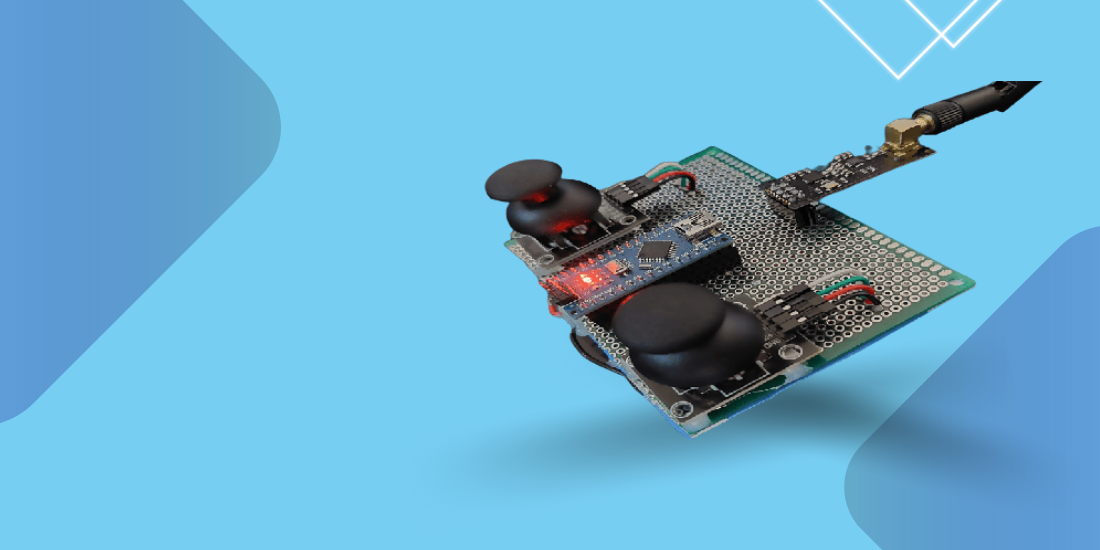
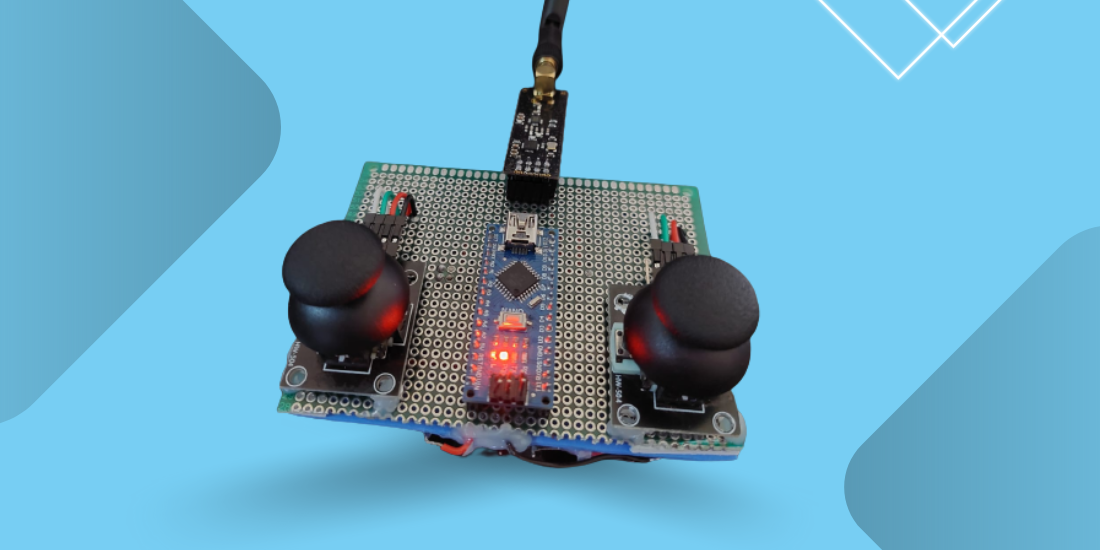
Project covers are good now

diff --git a/src/data.js b/src/data.js
@@ -57,6 +57,7 @@ export const works = [
         title: 'Solar-Panel',
         desc : 'Solar light detector',
         img  : images.solar_panel_project_cover,
+        smallImg: images.small_solar_panel_project_cover,
         link : 'solar-panel',
         back: '#adff2f',
     },
@@ -64,6 +65,7 @@ export const works = [
         title: 'Radio-Control',
         desc : 'RC Radio Controller',
         img  : images.rc_project_cover,
+        smallImg: images.small_rc_project_cover,
         link : 'radio-control',
         back: '#77cef3',
     },
@@ -74,6 +76,7 @@ export const works = [
         title: 'Drone',
         desc : 'Arduino based drone',
         img  : images.coming_soon_project_cover,
+        smallImg: images.small_coming_soon_project_cover,
         link : 'drone',
         back: '#f36430',
     },
@@ -81,6 +84,7 @@ export const works = [
         title: 'Robot-Arm',
         desc : 'Robotic gripper arm',
         img  : images.coming_soon_project_cover,
+        smallImg: images.small_coming_soon_project_cover,
         link : 'robot-arm',
         back: '#f36430',
     },
@@ -88,6 +92,7 @@ export const works = [
         title: 'DIY-Car',
         desc : 'Wireless control car',
         img  : images.coming_soon_project_cover,
+        smallImg: images.small_coming_soon_project_cover,
         link : 'diy-car',
         back: '#f36430',
     },
@@ -95,6 +100,7 @@ export const works = [
         title: 'Watering-System',
         desc : 'Automatic watering system',
         img  : images.coming_soon_project_cover,
+        smallImg: images.small_coming_soon_project_cover,
         link : 'watering-system',
         back: '#f36430',
     },
@@ -102,6 +108,7 @@ export const works = [
         title: 'Selling-Machine',
         desc : 'Automatic selling machine',
         img  : images.coming_soon_project_cover,
+        smallImg: images.small_coming_soon_project_cover,
         link : 'selling-machine',
         back: '#f36430',
     },

diff --git a/src/constants/images.js b/src/constants/images.js
@@ -13,6 +13,7 @@ import website                   from '../assets/home/services-website.png';
 
 /* Solar Light Detector */
 import solar_panel_project_cover from '../assets/solarPanel/solar_panel_project_cover.png';
+import small_solar_panel_project_cover from '../assets/solarPanel/small_solar_panel_project_cover.png';
 import arduino_solar_light       from '../assets/solarPanel/arduino_solar_light.jpg'; 
 import arduino_solar_light_small from '../assets/solarPanel/arduino_solar_light_small.jpg';
 import solar_panel_1             from '../assets/solarPanel/solar-panel-1.jpg';
@@ -31,6 +32,7 @@ import thangs_logo               from '../assets/home/thangs_logo.png';
 
 /* Radio Control */
 import rc_project_cover          from '../assets/radioControl/rc_project_cover.png';
+import small_rc_project_cover          from '../assets/radioControl/small_rc_project_cover.png';
 import rc_radio_control          from '../assets/radioControl/rc__right-side.jpg';
 import rc_received_data          from '../assets/radioControl/rc__received-data.jpg';
 
@@ -53,6 +55,7 @@ import create_banner             from '../assets/home/create-banner.png';
 import profile                   from '../assets/profile.jpg';
 
 import coming_soon_project_cover from '../assets/home/coming_soon_project_cover.gif';
+import small_coming_soon_project_cover from '../assets/home/small_coming_soon_project_cover.gif';
 
 const images = {
     banner,
@@ -70,6 +73,7 @@ const images = {
 
     /* Soalr Light Tracker */
     solar_panel_project_cover,
+    small_solar_panel_project_cover,
     arduino_solar_light,
     arduino_solar_light_small,
     solar_panel_1,
@@ -88,6 +92,7 @@ const images = {
 
     /* Radio Control */
     rc_project_cover,
+    small_rc_project_cover,
     rc_radio_control,
     rc_received_data,
 
@@ -110,6 +115,7 @@ const images = {
     profile,
 
     coming_soon_project_cover,
+    small_coming_soon_project_cover,
 }
 
 export default images;

diff --git a/src/components/Projects/RadioControl.jsx b/src/components/Projects/RadioControl.jsx
@@ -1,30 +1,29 @@
 import React from 'react';
-import { Link } from 'react-router-dom';
-import { BiCoffeeTogo } from 'react-icons/bi';
-import { FaPatreon } from 'react-icons/fa';
-import { AiFillInstagram } from 'react-icons/ai';
+// import { Link } from 'react-router-dom';
+// import { BiCoffeeTogo } from 'react-icons/bi';
+// import { FaPatreon } from 'react-icons/fa';
+// import { AiFillInstagram } from 'react-icons/ai';
 
 import './Project.css';
 import { images } from '../../constants/index';
-import { parts_3d, model_3d } from '../../data';
 
-const support = [
-  {
-    name: "Bye Me Coffe",
-    icon: <BiCoffeeTogo className='icon' fill='white' />,
-    link: "https://www.buymeacoffee.com/choaib.elmadi",
-  },
-  {
-    name: "Patreon",
-    icon: <FaPatreon className='icon' fill='black' />,
-    link: "https://www.patreon.com/user?u=81408575",
-  },
-  {
-    name: "Instagram",
-    icon: <AiFillInstagram className='icon' fill='white' />,
-    link: "https://www.instagram.com/choaib_elmadi",
-  },
-]
+// const support = [
+//   {
+//     name: "Bye Me Coffe",
+//     icon: <BiCoffeeTogo className='icon' fill='white' />,
+//     link: "https://www.buymeacoffee.com/choaib.elmadi",
+//   },
+//   {
+//     name: "Patreon",
+//     icon: <FaPatreon className='icon' fill='black' />,
+//     link: "https://www.patreon.com/user?u=81408575",
+//   },
+//   {
+//     name: "Instagram",
+//     icon: <AiFillInstagram className='icon' fill='white' />,
+//     link: "https://www.instagram.com/choaib_elmadi",
+//   },
+// ]
 
 
 

diff --git a/src/components/Work/Work.jsx b/src/components/Work/Work.jsx
@@ -1,4 +1,4 @@
-import React from 'react';
+import React, { useState, useEffect } from 'react';
 import { Link } from 'react-router-dom';
 import { FaEye } from 'react-icons/fa';
 
@@ -8,6 +8,24 @@ import { works } from '../../data';
 
 
 const Work = () => {
+    const [isMobile, setIsMobile] = useState(false);
+
+    useEffect(() => {
+        const mediaQuery = window.matchMedia('(max-width: 600px)');
+    
+        setIsMobile(mediaQuery.matches);
+    
+        const handleMediaChange = (e) => {
+          setIsMobile(e.matches);
+        }
+    
+        mediaQuery.addEventListener('change', handleMediaChange);
+    
+        return () => {
+          mediaQuery.removeEventListener('change', handleMediaChange);
+        };
+    }, []);
+
     return (
         <div id='Work' className='app__work'>
             {
@@ -17,7 +35,7 @@ const Work = () => {
                         className='app__works-work' 
                         style={{ background: work.back }}
                     >
-                        <img src={ work.img } alt={ `work-${ i }` } draggable={ false } />
+                        <img src={ isMobile ? work.smallImg : work.img } alt={ `work-${ i }` } draggable={ false } />
                         <h2>{ work.title }</h2>
                         <Link to={ `/projects/${ work.link }`} className="app__work-link">
                             <FaEye size={ 24 } />
